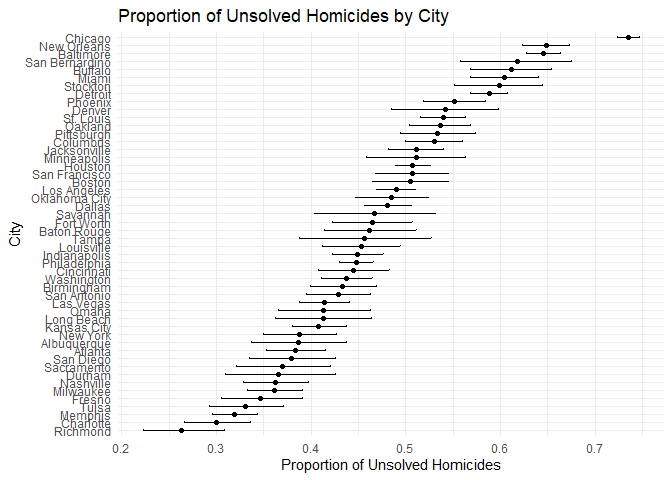
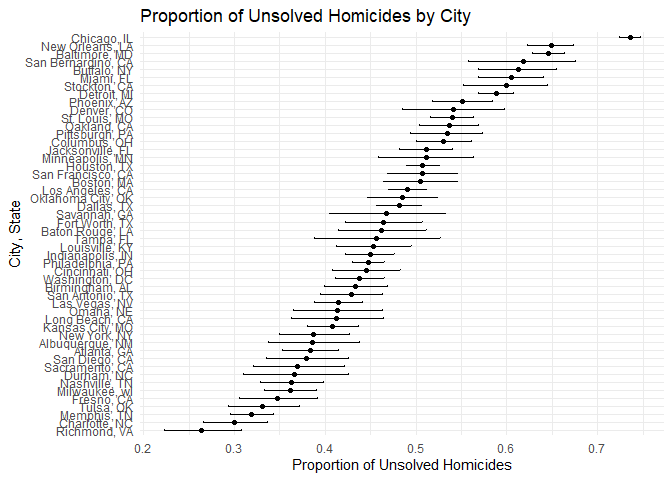
Commit everything for this homework

diff --git a/p8105_hw5_cj2793.md b/p8105_hw5_cj2793.md
@@ -8,6 +8,55 @@ library(tidyverse)
 set.seed(1)
 ```
 
+# Problem 1
+
+## Function to simulate birthdays, check for duplicates, and estimate the probability of shared birthdays
+
+``` r
+estimate_birthday_probabilities <- function(group_sizes, n_simulations) {
+  birthday_probabilities <- map_dbl(group_sizes, function(n) {
+    mean(replicate(n_simulations, {
+      birthdays <- sample(1:365, n, replace = TRUE)
+      any(duplicated(birthdays))
+    }))
+  })
+  
+  birthday_results <- tibble(
+    group_size = group_sizes,
+    probability = birthday_probabilities
+  )
+  
+  return(birthday_results)
+}
+```
+
+## Simulation and plot
+
+``` r
+group_sizes <- 2:50
+n_simulations <- 10000
+
+birthday_results <- estimate_birthday_probabilities(group_sizes, n_simulations)
+
+birthday_results |> 
+  ggplot(aes(x = group_size, y = probability)) +
+  geom_line() +
+  geom_point() +
+  labs(
+    title = "Probability of Shared Birthdays by Group Size",
+    x = "Group Size",
+    y = "Probability of Shared Birthday"
+  ) +
+  theme_minimal()
+```
+
+![](p8105_hw5_cj2793_files/figure-gfm/problem%201%20simulation%20plot-1.png)<!-- -->
+
+Initially, the probability of a shared birthday is very low for small
+group sizes. However, as the group size grows, the probability rises
+rapidly. By the time the group size reaches around 23, the probability
+exceeds 50%, and by group size 50, the probability approaches 100%.
+
 # Problem 2
 
 ## Set design parameters according to the problem
@@ -156,68 +205,69 @@ homicide_df <- homicide_df |>
   mutate(city_state = str_c(city, state, sep = ", "))
 
 homicide_summary <- homicide_df |>
-  group_by(city) |>
+  group_by(city_state) |>
   summarize(
     total_homicides = n(),
     unsolved_homicides = sum(disposition %in% c("Closed without arrest", "Open/No arrest"),
                              na.rm = TRUE)
-  )
+  ) |>
+  filter(city_state != "Tulsa, AL")
 
 homicide_summary |> knitr::kable()
 ```
 
-| city           | total_homicides | unsolved_homicides |
-|:---------------|----------------:|-------------------:|
-| Albuquerque    |             378 |                146 |
-| Atlanta        |             973 |                373 |
-| Baltimore      |            2827 |               1825 |
-| Baton Rouge    |             424 |                196 |
-| Birmingham     |             800 |                347 |
-| Boston         |             614 |                310 |
-| Buffalo        |             521 |                319 |
-| Charlotte      |             687 |                206 |
-| Chicago        |            5535 |               4073 |
-| Cincinnati     |             694 |                309 |
-| Columbus       |            1084 |                575 |
-| Dallas         |            1567 |                754 |
-| Denver         |             312 |                169 |
-| Detroit        |            2519 |               1482 |
-| Durham         |             276 |                101 |
-| Fort Worth     |             549 |                255 |
-| Fresno         |             487 |                169 |
-| Houston        |            2942 |               1493 |
-| Indianapolis   |            1322 |                594 |
-| Jacksonville   |            1168 |                597 |
-| Kansas City    |            1190 |                486 |
-| Las Vegas      |            1381 |                572 |
-| Long Beach     |             378 |                156 |
-| Los Angeles    |            2257 |               1106 |
-| Louisville     |             576 |                261 |
-| Memphis        |            1514 |                483 |
-| Miami          |             744 |                450 |
-| Milwaukee      |            1115 |                403 |
-| Minneapolis    |             366 |                187 |
-| Nashville      |             767 |                278 |
-| New Orleans    |            1434 |                930 |
-| New York       |             627 |                243 |
-| Oakland        |             947 |                508 |
-| Oklahoma City  |             672 |                326 |
-| Omaha          |             409 |                169 |
-| Philadelphia   |            3037 |               1360 |
-| Phoenix        |             914 |                504 |
-| Pittsburgh     |             631 |                337 |
-| Richmond       |             429 |                113 |
-| Sacramento     |             376 |                139 |
-| San Antonio    |             833 |                357 |
-| San Bernardino |             275 |                170 |
-| San Diego      |             461 |                175 |
-| San Francisco  |             663 |                336 |
-| Savannah       |             246 |                115 |
-| St. Louis      |            1677 |                905 |
-| Stockton       |             444 |                266 |
-| Tampa          |             208 |                 95 |
-| Tulsa          |             584 |                193 |
-| Washington     |            1345 |                589 |
+| city_state         | total_homicides | unsolved_homicides |
+|:-------------------|----------------:|-------------------:|
+| Albuquerque, NM    |             378 |                146 |
+| Atlanta, GA        |             973 |                373 |
+| Baltimore, MD      |            2827 |               1825 |
+| Baton Rouge, LA    |             424 |                196 |
+| Birmingham, AL     |             800 |                347 |
+| Boston, MA         |             614 |                310 |
+| Buffalo, NY        |             521 |                319 |
+| Charlotte, NC      |             687 |                206 |
+| Chicago, IL        |            5535 |               4073 |
+| Cincinnati, OH     |             694 |                309 |
+| Columbus, OH       |            1084 |                575 |
+| Dallas, TX         |            1567 |                754 |
+| Denver, CO         |             312 |                169 |
+| Detroit, MI        |            2519 |               1482 |
+| Durham, NC         |             276 |                101 |
+| Fort Worth, TX     |             549 |                255 |
+| Fresno, CA         |             487 |                169 |
+| Houston, TX        |            2942 |               1493 |
+| Indianapolis, IN   |            1322 |                594 |
+| Jacksonville, FL   |            1168 |                597 |
+| Kansas City, MO    |            1190 |                486 |
+| Las Vegas, NV      |            1381 |                572 |
+| Long Beach, CA     |             378 |                156 |
+| Los Angeles, CA    |            2257 |               1106 |
+| Louisville, KY     |             576 |                261 |
+| Memphis, TN        |            1514 |                483 |
+| Miami, FL          |             744 |                450 |
+| Milwaukee, wI      |            1115 |                403 |
+| Minneapolis, MN    |             366 |                187 |
+| Nashville, TN      |             767 |                278 |
+| New Orleans, LA    |            1434 |                930 |
+| New York, NY       |             627 |                243 |
+| Oakland, CA        |             947 |                508 |
+| Oklahoma City, OK  |             672 |                326 |
+| Omaha, NE          |             409 |                169 |
+| Philadelphia, PA   |            3037 |               1360 |
+| Phoenix, AZ        |             914 |                504 |
+| Pittsburgh, PA     |             631 |                337 |
+| Richmond, VA       |             429 |                113 |
+| Sacramento, CA     |             376 |                139 |
+| San Antonio, TX    |             833 |                357 |
+| San Bernardino, CA |             275 |                170 |
+| San Diego, CA      |             461 |                175 |
+| San Francisco, CA  |             663 |                336 |
+| Savannah, GA       |             246 |                115 |
+| St. Louis, MO      |            1677 |                905 |
+| Stockton, CA       |             444 |                266 |
+| Tampa, FL          |             208 |                 95 |
+| Tulsa, OK          |             583 |                193 |
+| Washington, DC     |            1345 |                589 |
 
 The raw data consists of information on homicides across 50 large U.S.
 cities, with 52179 records. The dataset contains variables such as
@@ -233,7 +283,7 @@ homicides.
 
 ``` r
 baltimore_data <- homicide_summary |> 
-  filter(city == "Baltimore")
+  filter(city_state == "Baltimore, MD")
 
 baltimore_prop_test <- prop.test(baltimore_data[['unsolved_homicides']],
                                  baltimore_data[['total_homicides']]) |>
@@ -274,71 +324,71 @@ homicide_test_summary <- homicide_summary |>
 homicide_test_summary  |> knitr::kable()
 ```
 
-| city           | total_homicides | unsolved_homicides |  estimate |  conf.low | conf.high |
-|:---------------|----------------:|-------------------:|----------:|----------:|----------:|
-| Albuquerque    |             378 |                146 | 0.3862434 | 0.3372604 | 0.4375766 |
-| Atlanta        |             973 |                373 | 0.3833505 | 0.3528119 | 0.4148219 |
-| Baltimore      |            2827 |               1825 | 0.6455607 | 0.6275625 | 0.6631599 |
-| Baton Rouge    |             424 |                196 | 0.4622642 | 0.4141987 | 0.5110240 |
-| Birmingham     |             800 |                347 | 0.4337500 | 0.3991889 | 0.4689557 |
-| Boston         |             614 |                310 | 0.5048860 | 0.4646219 | 0.5450881 |
-| Buffalo        |             521 |                319 | 0.6122841 | 0.5687990 | 0.6540879 |
-| Charlotte      |             687 |                206 | 0.2998544 | 0.2660820 | 0.3358999 |
-| Chicago        |            5535 |               4073 | 0.7358627 | 0.7239959 | 0.7473998 |
-| Cincinnati     |             694 |                309 | 0.4452450 | 0.4079606 | 0.4831439 |
-| Columbus       |            1084 |                575 | 0.5304428 | 0.5002167 | 0.5604506 |
-| Dallas         |            1567 |                754 | 0.4811742 | 0.4561942 | 0.5062475 |
-| Denver         |             312 |                169 | 0.5416667 | 0.4846098 | 0.5976807 |
-| Detroit        |            2519 |               1482 | 0.5883287 | 0.5687903 | 0.6075953 |
-| Durham         |             276 |                101 | 0.3659420 | 0.3095874 | 0.4260936 |
-| Fort Worth     |             549 |                255 | 0.4644809 | 0.4222542 | 0.5072119 |
-| Fresno         |             487 |                169 | 0.3470226 | 0.3051013 | 0.3913963 |
-| Houston        |            2942 |               1493 | 0.5074779 | 0.4892447 | 0.5256914 |
-| Indianapolis   |            1322 |                594 | 0.4493192 | 0.4223156 | 0.4766207 |
-| Jacksonville   |            1168 |                597 | 0.5111301 | 0.4820460 | 0.5401402 |
-| Kansas City    |            1190 |                486 | 0.4084034 | 0.3803996 | 0.4370054 |
-| Las Vegas      |            1381 |                572 | 0.4141926 | 0.3881284 | 0.4407395 |
-| Long Beach     |             378 |                156 | 0.4126984 | 0.3629026 | 0.4642973 |
-| Los Angeles    |            2257 |               1106 | 0.4900310 | 0.4692208 | 0.5108754 |
-| Louisville     |             576 |                261 | 0.4531250 | 0.4120609 | 0.4948235 |
-| Memphis        |            1514 |                483 | 0.3190225 | 0.2957047 | 0.3432691 |
-| Miami          |             744 |                450 | 0.6048387 | 0.5685783 | 0.6400015 |
-| Milwaukee      |            1115 |                403 | 0.3614350 | 0.3333172 | 0.3905194 |
-| Minneapolis    |             366 |                187 | 0.5109290 | 0.4585150 | 0.5631099 |
-| Nashville      |             767 |                278 | 0.3624511 | 0.3285592 | 0.3977401 |
-| New Orleans    |            1434 |                930 | 0.6485356 | 0.6231048 | 0.6731615 |
-| New York       |             627 |                243 | 0.3875598 | 0.3494421 | 0.4270755 |
-| Oakland        |             947 |                508 | 0.5364308 | 0.5040588 | 0.5685037 |
-| Oklahoma City  |             672 |                326 | 0.4851190 | 0.4467861 | 0.5236245 |
-| Omaha          |             409 |                169 | 0.4132029 | 0.3653146 | 0.4627477 |
-| Philadelphia   |            3037 |               1360 | 0.4478103 | 0.4300380 | 0.4657157 |
-| Phoenix        |             914 |                504 | 0.5514223 | 0.5184825 | 0.5839244 |
-| Pittsburgh     |             631 |                337 | 0.5340729 | 0.4942706 | 0.5734545 |
-| Richmond       |             429 |                113 | 0.2634033 | 0.2228571 | 0.3082658 |
-| Sacramento     |             376 |                139 | 0.3696809 | 0.3211559 | 0.4209131 |
-| San Antonio    |             833 |                357 | 0.4285714 | 0.3947772 | 0.4630331 |
-| San Bernardino |             275 |                170 | 0.6181818 | 0.5576628 | 0.6753422 |
-| San Diego      |             461 |                175 | 0.3796095 | 0.3354259 | 0.4258315 |
-| San Francisco  |             663 |                336 | 0.5067873 | 0.4680516 | 0.5454433 |
-| Savannah       |             246 |                115 | 0.4674797 | 0.4041252 | 0.5318665 |
-| St. Louis      |            1677 |                905 | 0.5396541 | 0.5154369 | 0.5636879 |
-| Stockton       |             444 |                266 | 0.5990991 | 0.5517145 | 0.6447418 |
-| Tampa          |             208 |                 95 | 0.4567308 | 0.3881009 | 0.5269851 |
-| Tulsa          |             584 |                193 | 0.3304795 | 0.2927201 | 0.3705039 |
-| Washington     |            1345 |                589 | 0.4379182 | 0.4112495 | 0.4649455 |
+| city_state         | total_homicides | unsolved_homicides |  estimate |  conf.low | conf.high |
+|:-------------------|----------------:|-------------------:|----------:|----------:|----------:|
+| Albuquerque, NM    |             378 |                146 | 0.3862434 | 0.3372604 | 0.4375766 |
+| Atlanta, GA        |             973 |                373 | 0.3833505 | 0.3528119 | 0.4148219 |
+| Baltimore, MD      |            2827 |               1825 | 0.6455607 | 0.6275625 | 0.6631599 |
+| Baton Rouge, LA    |             424 |                196 | 0.4622642 | 0.4141987 | 0.5110240 |
+| Birmingham, AL     |             800 |                347 | 0.4337500 | 0.3991889 | 0.4689557 |
+| Boston, MA         |             614 |                310 | 0.5048860 | 0.4646219 | 0.5450881 |
+| Buffalo, NY        |             521 |                319 | 0.6122841 | 0.5687990 | 0.6540879 |
+| Charlotte, NC      |             687 |                206 | 0.2998544 | 0.2660820 | 0.3358999 |
+| Chicago, IL        |            5535 |               4073 | 0.7358627 | 0.7239959 | 0.7473998 |
+| Cincinnati, OH     |             694 |                309 | 0.4452450 | 0.4079606 | 0.4831439 |
+| Columbus, OH       |            1084 |                575 | 0.5304428 | 0.5002167 | 0.5604506 |
+| Dallas, TX         |            1567 |                754 | 0.4811742 | 0.4561942 | 0.5062475 |
+| Denver, CO         |             312 |                169 | 0.5416667 | 0.4846098 | 0.5976807 |
+| Detroit, MI        |            2519 |               1482 | 0.5883287 | 0.5687903 | 0.6075953 |
+| Durham, NC         |             276 |                101 | 0.3659420 | 0.3095874 | 0.4260936 |
+| Fort Worth, TX     |             549 |                255 | 0.4644809 | 0.4222542 | 0.5072119 |
+| Fresno, CA         |             487 |                169 | 0.3470226 | 0.3051013 | 0.3913963 |
+| Houston, TX        |            2942 |               1493 | 0.5074779 | 0.4892447 | 0.5256914 |
+| Indianapolis, IN   |            1322 |                594 | 0.4493192 | 0.4223156 | 0.4766207 |
+| Jacksonville, FL   |            1168 |                597 | 0.5111301 | 0.4820460 | 0.5401402 |
+| Kansas City, MO    |            1190 |                486 | 0.4084034 | 0.3803996 | 0.4370054 |
+| Las Vegas, NV      |            1381 |                572 | 0.4141926 | 0.3881284 | 0.4407395 |
+| Long Beach, CA     |             378 |                156 | 0.4126984 | 0.3629026 | 0.4642973 |
+| Los Angeles, CA    |            2257 |               1106 | 0.4900310 | 0.4692208 | 0.5108754 |
+| Louisville, KY     |             576 |                261 | 0.4531250 | 0.4120609 | 0.4948235 |
+| Memphis, TN        |            1514 |                483 | 0.3190225 | 0.2957047 | 0.3432691 |
+| Miami, FL          |             744 |                450 | 0.6048387 | 0.5685783 | 0.6400015 |
+| Milwaukee, wI      |            1115 |                403 | 0.3614350 | 0.3333172 | 0.3905194 |
+| Minneapolis, MN    |             366 |                187 | 0.5109290 | 0.4585150 | 0.5631099 |
+| Nashville, TN      |             767 |                278 | 0.3624511 | 0.3285592 | 0.3977401 |
+| New Orleans, LA    |            1434 |                930 | 0.6485356 | 0.6231048 | 0.6731615 |
+| New York, NY       |             627 |                243 | 0.3875598 | 0.3494421 | 0.4270755 |
+| Oakland, CA        |             947 |                508 | 0.5364308 | 0.5040588 | 0.5685037 |
+| Oklahoma City, OK  |             672 |                326 | 0.4851190 | 0.4467861 | 0.5236245 |
+| Omaha, NE          |             409 |                169 | 0.4132029 | 0.3653146 | 0.4627477 |
+| Philadelphia, PA   |            3037 |               1360 | 0.4478103 | 0.4300380 | 0.4657157 |
+| Phoenix, AZ        |             914 |                504 | 0.5514223 | 0.5184825 | 0.5839244 |
+| Pittsburgh, PA     |             631 |                337 | 0.5340729 | 0.4942706 | 0.5734545 |
+| Richmond, VA       |             429 |                113 | 0.2634033 | 0.2228571 | 0.3082658 |
+| Sacramento, CA     |             376 |                139 | 0.3696809 | 0.3211559 | 0.4209131 |
+| San Antonio, TX    |             833 |                357 | 0.4285714 | 0.3947772 | 0.4630331 |
+| San Bernardino, CA |             275 |                170 | 0.6181818 | 0.5576628 | 0.6753422 |
+| San Diego, CA      |             461 |                175 | 0.3796095 | 0.3354259 | 0.4258315 |
+| San Francisco, CA  |             663 |                336 | 0.5067873 | 0.4680516 | 0.5454433 |
+| Savannah, GA       |             246 |                115 | 0.4674797 | 0.4041252 | 0.5318665 |
+| St. Louis, MO      |            1677 |                905 | 0.5396541 | 0.5154369 | 0.5636879 |
+| Stockton, CA       |             444 |                266 | 0.5990991 | 0.5517145 | 0.6447418 |
+| Tampa, FL          |             208 |                 95 | 0.4567308 | 0.3881009 | 0.5269851 |
+| Tulsa, OK          |             583 |                193 | 0.3310463 | 0.2932349 | 0.3711192 |
+| Washington, DC     |            1345 |                589 | 0.4379182 | 0.4112495 | 0.4649455 |
 
 ``` r
 homicide_test_summary <- homicide_test_summary |>
   arrange(desc(estimate))
 
 homicide_test_summary |> 
-  ggplot(aes(x = reorder(city, estimate), y = estimate)) +
+  ggplot(aes(x = reorder(city_state, estimate), y = estimate)) +
   geom_point() +
   geom_errorbar(aes(ymin = conf.low, ymax = conf.high), width = 0.2) +
   coord_flip() +
   labs(
     title = "Proportion of Unsolved Homicides by City",
-    x = "City",
+    x = "City, State",
     y = "Proportion of Unsolved Homicides"
   ) +
   theme_minimal()
